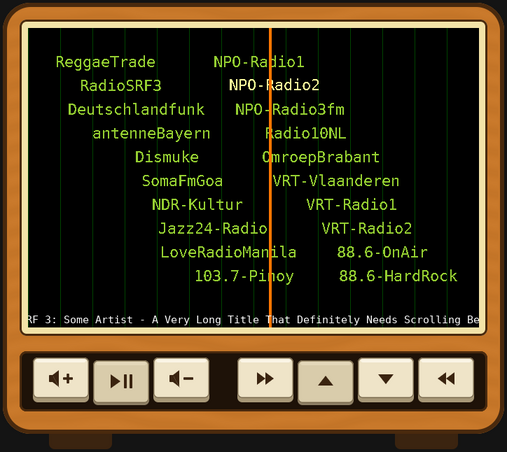
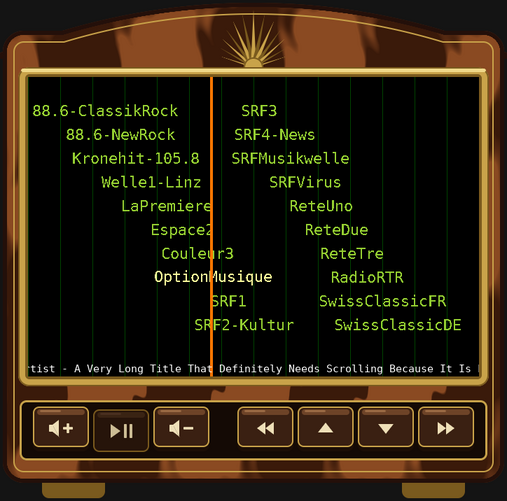
Cabinet: 1930s style, scan keys swapped, play key latched while playing
- Walnut "tombstone" case with an arched top, Art Deco sunburst, brass
  pinstripe, brass bezel and feet; brown Bakelite push buttons with
  brass rims and cream symbols.
- Scan left is now left of the page keys, scan right at the far right.
- The play/pause key stays down while the radio plays (was: paused).

diff --git a/cabinet.c b/cabinet.c
@@ -2,10 +2,11 @@
 /*
  * RetroWebRadio - optional radio cabinet around the dial
  *
- * A tube radio case in the style of the icon: wooden body, the dial
- * behind a cream bezel and a row of ivory piano-key buttons below it:
+ * A 1930s style tube radio: walnut "tombstone" case with an arched top
+ * and an Art Deco sunburst, brass trim, the dial behind a brass bezel and
+ * a row of Bakelite push buttons below it:
  *
- *   [Vol +] [Play/Pause] [Vol -]   [>>] [^] [v] [<<]
+ *   [Vol +] [Play/Pause] [Vol -]   [<<] [^] [v] [>>]
  *
  * The case and the keys (normal and pressed) are rendered once with
  * anti-aliased shapes into textures; per frame only textures are copied.
@@ -16,15 +17,20 @@
 #include <stdint.h>
 #include "cabinet.h"
 
-#define BODY_COL   0xc8782a
-#define EDGE_COL   0x4a2a0e
-#define DARK_COL   0x3b2410
-#define CREAM_COL  0xf3e3a8
-#define IVORY_COL  0xefe4c8
-#define IVORY_DN   0xd9ccab
-#define SYMBOL_COL 0x3b2410
+#define WOOD_COL   0x5a2d14   /* walnut */
+#define WOOD_DARK  0x3a1a0a
+#define WOOD_LIGHT 0x8a4a22
+#define EDGE_COL   0x24100a
+#define BRASS_COL  0xc9a34a
+#define BRASS_DARK 0x7a5a1e
+#define BRASS_LITE 0xf0d98a
+#define KEY_COL    0x3a2012   /* brown Bakelite */
+#define KEY_DN     0x26140a
+#define SYMBOL_COL 0xefe0b8   /* cream inlay */
+#define SYMBOL_DN  0xcdbd95
 #define OUTSIDE    0x141414
 
+#define ARCH_H     70         /* height of the arched top above the body */
 #define BODY_BOTTOM (CAB_H - 26)
 #define SLOT_X0    (CAB_DIAL_X - 12)
 #define SLOT_X1    (CAB_DIAL_X + 644 + 12)
@@ -117,47 +123,89 @@ static void tri(SDL_Surface *s, double ax, double ay, double bx, double by,
 
 static void key_rect(int k, int *x, int *y)
 {
-  int group = k >= CAB_KEY_RIGHT;
+  int group = k >= CAB_KEY_LEFT;  /* second group: tuning */
   int total = CAB_KEYS * KEY_W + (CAB_KEYS - 2) * KEY_GAP + GROUP_GAP;
   *x = (SLOT_X0 + SLOT_X1 - total) / 2 + k * (KEY_W + KEY_GAP) + group * (GROUP_GAP - KEY_GAP);
   *y = SLOT_Y0 + (SLOT_Y1 - SLOT_Y0 - KEY_H) / 2 - 2;
 }
 
+/* distance to the case outline: straight body with an arched top */
+static double sd_case(double px, double py)
+{
+  double w = CAB_W - 8, cx = CAB_W / 2.0, top = 4, base = top + ARCH_H;
+  double R = (w * w / 4 + ARCH_H * ARCH_H) / (2.0 * ARCH_H);   /* arch radius */
+  double body = sd_rrect(px, py, 4, base - 30, CAB_W - 4, BODY_BOTTOM, 30);
+  double arch = hypot(px - cx, py - (top + R)) - R;
+  double cut = py - (base + 10);           /* keep the arch above the body */
+  double a = arch > cut ? arch : cut;
+  return body < a ? body : a;
+}
+
 static SDL_Surface *draw_case(void)
 {
   SDL_Surface *s = SDL_CreateRGBSurfaceWithFormat(0, CAB_W, CAB_H, 32, SDL_PIXELFORMAT_ARGB8888);
-  int x, y;
+  int x, y, i;
+  double cx = CAB_W / 2.0;
 
   if (s == NULL)
     return NULL;
   SDL_FillRect(s, NULL, 0xff000000u | OUTSIDE);
 
-  /* feet */
-  rrect(s, 70, BODY_BOTTOM - 20, 160, CAB_H - 4, 8, DARK_COL, 0, 0);
-  rrect(s, CAB_W - 160, BODY_BOTTOM - 20, CAB_W - 70, CAB_H - 4, 8, DARK_COL, 0, 0);
+  /* brass ball feet */
+  rrect(s, 60, BODY_BOTTOM - 20, 150, CAB_H - 4, 10, BRASS_DARK, 0, 0);
+  rrect(s, CAB_W - 150, BODY_BOTTOM - 20, CAB_W - 60, CAB_H - 4, 10, BRASS_DARK, 0, 0);
 
-  /* wooden body with a subtle grain */
-  rrect(s, 4, 4, CAB_W - 4, BODY_BOTTOM, 40, BODY_COL, 6, EDGE_COL);
-  for (y = 12; y < BODY_BOTTOM - 8; y++)
-    for (x = 12; x < CAB_W - 12; x++) {
-      double inside = -sd_rrect(x + 0.5, y + 0.5, 4, 4, CAB_W - 4, BODY_BOTTOM, 40) - 7;
-      double grain = sin(y * 0.21 + sin(x * 0.013) * 2.5 + sin(x * 0.051) * 0.6);
-      if (inside > 0)
-        blend(s, x, y, grain > 0 ? 0xa05a18 : 0xe09040,
-              (inside > 2 ? 1 : inside / 2) * 0.10 * fabs(grain));
+  /* walnut case with grain, dark edge */
+  for (y = 0; y < CAB_H; y++)
+    for (x = 0; x < CAB_W; x++) {
+      double d = sd_case(x + 0.5, y + 0.5);
+      double grain, cov;
+      uint32_t col;
+      if (d > 1)
+        continue;
+      cov = 0.5 - d;
+      /* slow figure plus fine pores, kept subtle */
+      grain = sin(x * 0.028 + sin(y * 0.009) * 2.2 + sin(y * 0.031 + x * 0.003) * 0.6);
+      grain += 0.25 * sin(x * 0.19 + sin(y * 0.05) * 1.5);
+      col = grain > 0 ? WOOD_LIGHT : WOOD_DARK;
+      blend(s, x, y, WOOD_COL, cov);
+      blend(s, x, y, col, cov * (grain > 0 ? 0.16 : 0.22) * fabs(grain));
+      if (d > -6)                                  /* rim */
+        blend(s, x, y, EDGE_COL, cov * (d > -4 ? 1 : (d + 6) / 2));
     }
 
-  /* bezel around the dial */
-  rrect(s, CAB_DIAL_X - 12, CAB_DIAL_Y - 12, CAB_DIAL_X + 644 + 12, CAB_DIAL_Y + 428 + 12,
-        10, CREAM_COL, 3, EDGE_COL);
+  /* brass pinstripe following the outline */
+  for (y = 0; y < CAB_H; y++)
+    for (x = 0; x < CAB_W; x++) {
+      double d = sd_case(x + 0.5, y + 0.5) + 16;   /* 16 px inside */
+      if (fabs(d) < 2)
+        blend(s, x, y, BRASS_COL, 0.5 - (fabs(d) - 1));
+    }
 
-  /* recessed slot for the keys */
-  rrect(s, SLOT_X0, SLOT_Y0, SLOT_X1, SLOT_Y1, 10, 0x1e1208, 3, EDGE_COL);
+  /* Art Deco sunburst in the arch */
+  for (i = -6; i <= 6; i++) {
+    double a = i * 12 * M_PI / 180, len = 82 - abs(i) * 6;
+    double ox = cx, oy = CAB_DIAL_Y - 14;
+    tri(s, ox - 4, oy, ox + 4, oy, ox + sin(a) * len, oy - cos(a) * len,
+        i % 2 ? BRASS_DARK : BRASS_COL);
+  }
+  rrect(s, cx - 14, CAB_DIAL_Y - 28, cx + 14, CAB_DIAL_Y - 14 + 14, 14, BRASS_COL, 2, BRASS_DARK);
+
+  /* brass bezel around the dial, rounded top */
+  rrect(s, CAB_DIAL_X - 14, CAB_DIAL_Y - 14, CAB_DIAL_X + 644 + 14, CAB_DIAL_Y + 428 + 14,
+        16, BRASS_COL, 2, BRASS_DARK);
+  rrect(s, CAB_DIAL_X - 10, CAB_DIAL_Y - 12, CAB_DIAL_X + 644 + 10, CAB_DIAL_Y - 7,
+        3, BRASS_LITE, 0, 0);
+  rrect(s, CAB_DIAL_X - 4, CAB_DIAL_Y - 4, CAB_DIAL_X + 644 + 4, CAB_DIAL_Y + 428 + 4,
+        6, BRASS_DARK, 0, 0);
+
+  /* recessed slot for the keys, brass framed */
+  rrect(s, SLOT_X0, SLOT_Y0, SLOT_X1, SLOT_Y1, 10, 0x140a05, 3, BRASS_COL);
   return s;
 }
 
 /* symbol of key k, centred at cx,cy */
-static void draw_symbol(SDL_Surface *s, int k, double cx, double cy)
+static void draw_symbol(SDL_Surface *s, int k, double cx, double cy, uint32_t col)
 {
   double t = 9;  /* half size of arrows */
 
@@ -165,51 +213,52 @@ static void draw_symbol(SDL_Surface *s, int k, double cx, double cy)
   case CAB_KEY_VOLUP:
   case CAB_KEY_VOLDOWN:
     /* speaker + plus/minus */
-    rrect(s, cx - 17, cy - 5, cx - 11, cy + 5, 1, SYMBOL_COL, 0, 0);
-    tri(s, cx - 12, cy - 5, cx - 3, cy - 12, cx - 3, cy + 12, SYMBOL_COL);
-    tri(s, cx - 12, cy + 5, cx - 3, cy + 12, cx - 12, cy - 5, SYMBOL_COL);
-    rrect(s, cx + 3, cy - 1.8, cx + 17, cy + 1.8, 1, SYMBOL_COL, 0, 0);
+    rrect(s, cx - 17, cy - 5, cx - 11, cy + 5, 1, col, 0, 0);
+    tri(s, cx - 12, cy - 5, cx - 3, cy - 12, cx - 3, cy + 12, col);
+    tri(s, cx - 12, cy + 5, cx - 3, cy + 12, cx - 12, cy - 5, col);
+    rrect(s, cx + 3, cy - 1.8, cx + 17, cy + 1.8, 1, col, 0, 0);
     if (k == CAB_KEY_VOLUP)
-      rrect(s, cx + 8.2, cy - 7, cx + 11.8, cy + 7, 1, SYMBOL_COL, 0, 0);
+      rrect(s, cx + 8.2, cy - 7, cx + 11.8, cy + 7, 1, col, 0, 0);
     break;
   case CAB_KEY_PLAY:
-    tri(s, cx - 15, cy - 10, cx - 15, cy + 10, cx - 1, cy, SYMBOL_COL);
-    rrect(s, cx + 4, cy - 10, cx + 8, cy + 10, 1, SYMBOL_COL, 0, 0);
-    rrect(s, cx + 12, cy - 10, cx + 16, cy + 10, 1, SYMBOL_COL, 0, 0);
+    tri(s, cx - 15, cy - 10, cx - 15, cy + 10, cx - 1, cy, col);
+    rrect(s, cx + 4, cy - 10, cx + 8, cy + 10, 1, col, 0, 0);
+    rrect(s, cx + 12, cy - 10, cx + 16, cy + 10, 1, col, 0, 0);
     break;
   case CAB_KEY_RIGHT:  /* scan right: >> */
-    tri(s, cx - 12, cy - t, cx - 12, cy + t, cx, cy, SYMBOL_COL);
-    tri(s, cx, cy - t, cx, cy + t, cx + 12, cy, SYMBOL_COL);
+    tri(s, cx - 12, cy - t, cx - 12, cy + t, cx, cy, col);
+    tri(s, cx, cy - t, cx, cy + t, cx + 12, cy, col);
     break;
   case CAB_KEY_LEFT:   /* scan left: << */
-    tri(s, cx + 12, cy - t, cx + 12, cy + t, cx, cy, SYMBOL_COL);
-    tri(s, cx, cy - t, cx, cy + t, cx - 12, cy, SYMBOL_COL);
+    tri(s, cx + 12, cy - t, cx + 12, cy + t, cx, cy, col);
+    tri(s, cx, cy - t, cx, cy + t, cx - 12, cy, col);
     break;
   case CAB_KEY_UP:     /* next page */
-    tri(s, cx - 11, cy + 6, cx + 11, cy + 6, cx, cy - 8, SYMBOL_COL);
+    tri(s, cx - 11, cy + 6, cx + 11, cy + 6, cx, cy - 8, col);
     break;
   case CAB_KEY_DOWN:   /* previous page */
-    tri(s, cx - 11, cy - 6, cx + 11, cy - 6, cx, cy + 8, SYMBOL_COL);
+    tri(s, cx - 11, cy - 6, cx + 11, cy - 6, cx, cy + 8, col);
     break;
   }
 }
 
-/* one key, 'down' = pressed look; surface is transparent around it */
+/* one Bakelite key with brass rim; 'down' = pressed look */
 static SDL_Surface *draw_key(int k, int down)
 {
   SDL_Surface *s = SDL_CreateRGBSurfaceWithFormat(0, KEY_W, KEY_H + PRESS_DY, 32,
                                                   SDL_PIXELFORMAT_ARGB8888);
   double dy = down ? PRESS_DY : 0;
+  double bottom = KEY_H - 6 + dy + (down ? 3 : 0);
 
   if (s == NULL)
     return NULL;
   SDL_FillRect(s, NULL, 0);
-  /* side / shadow, then the key face with a light top edge */
-  rrect(s, 0, dy + 4, KEY_W, KEY_H + dy, 7, down ? 0x8e8065 : 0xa89878, 0, 0);
-  rrect(s, 0, dy, KEY_W, KEY_H - 6 + dy + (down ? 3 : 0), 7,
-        down ? IVORY_DN : IVORY_COL, 1.5, 0x7a6a4e);
-  rrect(s, 4, dy + 2, KEY_W - 4, dy + 7, 3, down ? 0xe4d8ba : 0xfbf5e6, 0, 0);
-  draw_symbol(s, k, KEY_W / 2.0, (KEY_H - 6) / 2.0 + dy + 1);
+  /* side (depth), face with brass rim, glossy highlight */
+  rrect(s, 0, dy + 4, KEY_W, KEY_H + dy, 9, down ? 0x160b05 : 0x1c0e06, 0, 0);
+  rrect(s, 0, dy, KEY_W, bottom, 9, down ? KEY_DN : KEY_COL, 2, down ? BRASS_DARK : BRASS_COL);
+  rrect(s, 6, dy + 4, KEY_W - 6, dy + 12, 4, down ? 0x3a2414 : 0x6e4428, 0, 0);
+  rrect(s, 10, dy + 5, KEY_W / 2.0, dy + 8, 2, down ? 0x4a3020 : 0x9a6a44, 0, 0);
+  draw_symbol(s, k, KEY_W / 2.0, (KEY_H - 6) / 2.0 + dy + 2, down ? SYMBOL_DN : SYMBOL_COL);
   return s;
 }
 

diff --git a/roehre.c b/roehre.c
@@ -447,7 +447,7 @@ static void get_current_track(void)
       if (line[0] == '[') {   /* "[playing] #1/1 ..." or "[paused] ..." */
         int p = strncmp(line, "[paused]", 8) == 0;
         if (p != cur_paused) {
-          cur_paused = p;     /* latches the play/pause key of the cabinet */
+          cur_paused = p;     /* releases the latched play key of the cabinet */
           refresh_now = 1;
         }
       }
@@ -611,8 +611,8 @@ static void draw_everything(int full)
                       (Uint8 *)screen->pixels + strip.y * screen->pitch, screen->pitch);
   SDL_RenderClear(renderer);
   if (cabinet_on)
-    cabinet_render(renderer, texture, pressed_key,
-                   cur_paused ? 1u << CAB_KEY_PLAY : 0);
+    cabinet_render(renderer, texture, pressed_key,   /* play latched while playing */
+                   current_playing_url[0] != '\0' && !cur_paused ? 1u << CAB_KEY_PLAY : 0);
   else
     SDL_RenderCopy(renderer, texture, NULL, NULL);
   SDL_RenderPresent(renderer);

diff --git a/cabinet.h b/cabinet.h
@@ -9,14 +9,14 @@
 
 /* logical size of the whole cabinet and position of the 644x428 dial */
 #define CAB_W      724
-#define CAB_H      646
+#define CAB_H      716
 #define CAB_DIAL_X 40
-#define CAB_DIAL_Y 40
+#define CAB_DIAL_Y 110
 
 /* piano keys below the dial, left to right */
 enum {
   CAB_KEY_VOLUP, CAB_KEY_PLAY, CAB_KEY_VOLDOWN,
-  CAB_KEY_RIGHT, CAB_KEY_UP, CAB_KEY_DOWN, CAB_KEY_LEFT,
+  CAB_KEY_LEFT, CAB_KEY_UP, CAB_KEY_DOWN, CAB_KEY_RIGHT,
   CAB_KEYS
 };
 
@@ -27,7 +27,7 @@ enum { CAB_HIT_NONE = -2, CAB_HIT_DIAL = -1, CAB_HIT_KEY = 0 };
 int cabinet_init(SDL_Renderer *r);
 
 /* case, dial texture and keys; 'pressed' key (or -1) and 'latched' keys
-   (bit mask, e.g. play/pause while paused) are drawn pressed down */
+   (bit mask, e.g. play/pause while playing) are drawn pressed down */
 void cabinet_render(SDL_Renderer *r, SDL_Texture *dial, int pressed, unsigned latched);
 
 /* what is at logical position x,y */

diff --git a/README.md b/README.md
@@ -125,14 +125,15 @@ already playing that station, it is taken over without re-tuning (no gap).
 
 ## Radio cabinet
 
-Optionally the dial sits in a tube radio case like the icon (key `g` or `-g`; the
-choice is remembered):
+Optionally the dial sits in a 1930s style tube radio case: walnut with an arched top,
+Art Deco sunburst, brass trim and Bakelite push buttons (key `g` or `-g`; the choice
+is remembered):
 
 <img src="cabinet.png" width=50%>
 
-Piano keys below the dial, left to right: volume +, play/pause, volume −,
-scan right, next page, previous page, scan left. Play/pause stays pressed down
-while mpd is paused. The mouse wheel tunes.
+Push buttons below the dial, left to right: volume +, play/pause, volume −,
+scan left, next page, previous page, scan right. Play/pause stays pressed down
+while the radio plays. The mouse wheel tunes.
 
 ## Tray icon
 
